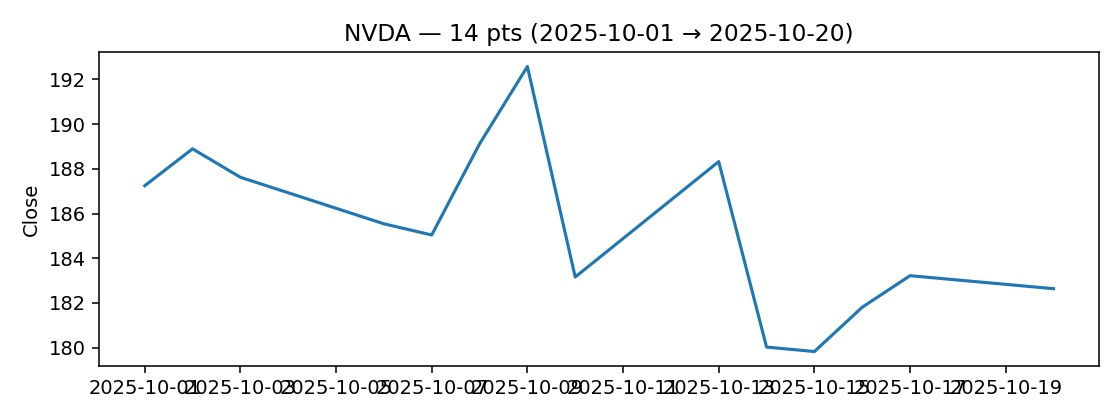
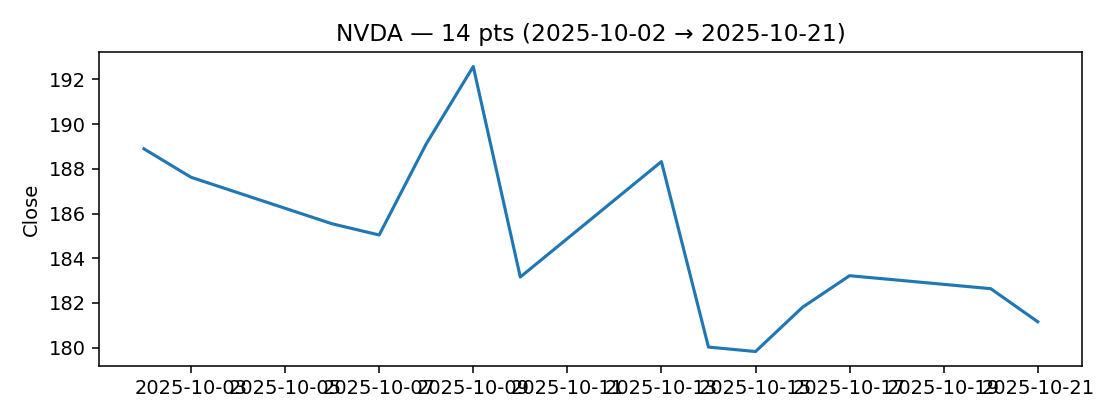
chore: update daily report 2025-10-22 08:13

diff --git a/docs/daily_report.html b/docs/daily_report.html
@@ -108,7 +108,7 @@
   <header>
     <div>
       <h1>Daily Study & News Companion</h1>
-      <div class="sub">2025-10-21 08:36 · TZ: CST</div>
+      <div class="sub">2025-10-22 08:13 · TZ: CST</div>
     </div>
     <button class="btn" id="themeBtn">🌓 Tema</button>
   </header>
@@ -150,11 +150,11 @@
           </div>
           <div class="mkt-body">
             <div class="metrics-row">
-          <div class="kv"><span>Last</span><b>216.48</b></div>
-          <div class="kv"><span>d/d</span><b class="down">-1.88%</b></div>
+          <div class="kv"><span>Last</span><b>222.03</b></div>
+          <div class="kv"><span>d/d</span><b class="down">-0.17%</b></div>
           <div class="kv"><span>Mín</span><b>213.04</b></div>
           <div class="kv"><span>Máx</span><b>227.74</b></div>
-          <div class="kv"><span>σ</span><b>4.04</b></div>
+          <div class="kv"><span>σ</span><b>4.09</b></div>
         </div>
             <div class="chart"><img src="charts/AMZN_close.png" alt="AMZN chart" loading="lazy"/></div>
           </div>
@@ -167,11 +167,11 @@
           </div>
           <div class="mkt-body">
             <div class="metrics-row">
-          <div class="kv"><span>Last</span><b>516.79</b></div>
-          <div class="kv"><span>d/d</span><b class="down">-0.56%</b></div>
+          <div class="kv"><span>Last</span><b>517.66</b></div>
+          <div class="kv"><span>d/d</span><b class="up">0.37%</b></div>
           <div class="kv"><span>Mín</span><b>510.96</b></div>
           <div class="kv"><span>Máx</span><b>528.57</b></div>
-          <div class="kv"><span>σ</span><b>5.26</b></div>
+          <div class="kv"><span>σ</span><b>5.23</b></div>
         </div>
             <div class="chart"><img src="charts/MSFT_close.png" alt="MSFT chart" loading="lazy"/></div>
           </div>
@@ -184,11 +184,11 @@
           </div>
           <div class="mkt-body">
             <div class="metrics-row">
-          <div class="kv"><span>Last</span><b>182.64</b></div>
-          <div class="kv"><span>d/d</span><b class="down">-2.46%</b></div>
+          <div class="kv"><span>Last</span><b>181.16</b></div>
+          <div class="kv"><span>d/d</span><b class="down">-4.09%</b></div>
           <div class="kv"><span>Mín</span><b>179.83</b></div>
           <div class="kv"><span>Máx</span><b>192.57</b></div>
-          <div class="kv"><span>σ</span><b>3.63</b></div>
+          <div class="kv"><span>σ</span><b>3.74</b></div>
         </div>
             <div class="chart"><img src="charts/NVDA_close.png" alt="NVDA chart" loading="lazy"/></div>
           </div>
@@ -201,11 +201,11 @@
           </div>
           <div class="mkt-body">
             <div class="metrics-row">
-          <div class="kv"><span>Last</span><b>447.43</b></div>
-          <div class="kv"><span>d/d</span><b class="down">-2.62%</b></div>
+          <div class="kv"><span>Last</span><b>442.60</b></div>
+          <div class="kv"><span>d/d</span><b class="up">1.51%</b></div>
           <div class="kv"><span>Mín</span><b>413.49</b></div>
-          <div class="kv"><span>Máx</span><b>459.46</b></div>
-          <div class="kv"><span>σ</span><b>10.82</b></div>
+          <div class="kv"><span>Máx</span><b>453.25</b></div>
+          <div class="kv"><span>σ</span><b>9.02</b></div>
         </div>
             <div class="chart"><img src="charts/TSLA_close.png" alt="TSLA chart" loading="lazy"/></div>
           </div>
@@ -218,11 +218,11 @@
           </div>
           <div class="mkt-body">
             <div class="metrics-row">
-          <div class="kv"><span>Last</span><b>671.30</b></div>
-          <div class="kv"><span>d/d</span><b class="up">0.43%</b></div>
+          <div class="kv"><span>Last</span><b>671.29</b></div>
+          <div class="kv"><span>d/d</span><b class="up">0.31%</b></div>
           <div class="kv"><span>Mín</span><b>653.02</b></div>
           <div class="kv"><span>Máx</span><b>673.11</b></div>
-          <div class="kv"><span>σ</span><b>5.29</b></div>
+          <div class="kv"><span>σ</span><b>5.42</b></div>
         </div>
             <div class="chart"><img src="charts/^GSPC_close.png" alt="^GSPC chart" loading="lazy"/></div>
           </div>
@@ -250,38 +250,38 @@
             <ul class="news-list">
               <li class="news-item" data-topic="AI">
                 <span class="dot"></span>
-                <a href="https://www.bloomberg.com/news/articles/2025-10-21/airbnb-ceo-brian-chesky-says-chatgpt-integration-not-ready-for-airbnb-app" target="_blank" rel="noreferrer">Chesky Says OpenAI Tools Not Ready for ChatGPT Tie-Up With Airbnb App</a>
-                <div class="meta">2025-10-21 12:00 · <span class="src">Natalie Lung</span></div>
+                <a href="https://www.bloomberg.com/news/articles/2025-10-22/ai-scours-1-billion-deal-terms-to-show-lenders-default-defenses" target="_blank" rel="noreferrer">AI Scours 1 Billion Deal Terms to Show Lenders’ Default Defenses</a>
+                <div class="meta">2025-10-22 12:00 · <span class="src">Rachel Graf</span></div>
               </li>
             
               <li class="news-item" data-topic="AI">
                 <span class="dot"></span>
-                <a href="https://www.bloomberg.com/news/articles/2025-10-21/unitedhealth-s-optum-real-uses-ai-to-speed-up-medical-claims" target="_blank" rel="noreferrer">UnitedHealth’s ‘Optum Real’ Uses AI to Speed Up Medical Claims</a>
-                <div class="meta">2025-10-21 11:00 · <span class="src">John Tozzi</span></div>
+                <a href="https://www.bloomberg.com/news/videos/2025-10-22/anthropic-google-discuss-multibillion-dollar-cloud-deal-video" target="_blank" rel="noreferrer">Anthropic, Google Discuss Multibillion-Dollar Cloud Deal</a>
+                <div class="meta">2025-10-22 10:43 · <span class="src">www.bloomberg.com</span></div>
               </li>
             
               <li class="news-item" data-topic="AI">
                 <span class="dot"></span>
-                <a href="https://www.bloomberg.com/news/articles/2025-10-21/insight-owned-veeam-agrees-to-buy-securiti-ai-for-1-7-billion" target="_blank" rel="noreferrer">Insight-Owned Veeam Agrees to Buy Securiti AI for $1.7 Billion</a>
-                <div class="meta">2025-10-21 11:00 · <span class="src">Dina Bass</span></div>
+                <a href="https://www.bloomberg.com/news/articles/2025-10-22/whatsapp-generative-ai-propel-brazil-into-the-future-of-finance" target="_blank" rel="noreferrer">WhatsApp and Generative AI Propel Brazil Into the Future of Finance</a>
+                <div class="meta">2025-10-22 10:00 · <span class="src">Gabriel Diniz Tavares</span></div>
               </li>
             
               <li class="news-item" data-topic="AI">
                 <span class="dot"></span>
-                <a href="https://www.bloomberg.com/news/articles/2025-10-21/ai-boom-transforms-utilities-from-haven-to-soaring-growth-stocks" target="_blank" rel="noreferrer">AI Boom Transforms Utilities From Haven to Soaring Growth Stocks</a>
-                <div class="meta">2025-10-21 10:30 · <span class="src">Carmen Reinicke</span></div>
+                <a href="https://www.bloomberg.com/news/articles/2025-10-22/prince-harry-geoffrey-hinton-call-for-ban-on-ai-superintelligence" target="_blank" rel="noreferrer">Prince Harry, Geoffrey Hinton Call for Ban on AI Superintelligence</a>
+                <div class="meta">2025-10-22 04:01 · <span class="src">Shirin Ghaffary</span></div>
               </li>
             
               <li class="news-item" data-topic="AI">
                 <span class="dot"></span>
-                <a href="https://www.bloomberg.com/news/articles/2025-10-21/openai-looks-to-replace-the-drudgery-of-junior-bankers-workload" target="_blank" rel="noreferrer">OpenAI Hires Ex-Goldman Staff to Help Cut Down Junior Bankers’ Grunt Work</a>
-                <div class="meta">2025-10-21 10:06 · <span class="src">Omar El Chmouri</span></div>
+                <a href="https://www.bloomberg.com/news/articles/2025-10-22/softbank-seeks-to-sell-about-2-billion-of-bonds-amid-ai-push" target="_blank" rel="noreferrer">SoftBank Seeks $2 Billion in Bond Sale as It Chases AI Bets</a>
+                <div class="meta">2025-10-22 02:36 · <span class="src">Janice Huang</span></div>
               </li>
             
               <li class="news-item" data-topic="AI">
                 <span class="dot"></span>
-                <a href="https://www.bloomberg.com/news/articles/2025-10-21/sea-ceo-li-sees-path-to-1-trillion-market-cap-with-help-of-ai" target="_blank" rel="noreferrer">Sea CEO Li Sees Path to $1 Trillion Market Cap With Help of AI</a>
-                <div class="meta">2025-10-21 03:30 · <span class="src">Olivia Poh</span></div>
+                <a href="https://www.bloomberg.com/news/articles/2025-10-21/anthropic-google-in-talks-on-cloud-deal-worth-tens-of-billions" target="_blank" rel="noreferrer">Anthropic, Google in Talks on Multibillion-Dollar Cloud Deal</a>
+                <div class="meta">2025-10-21 21:43 · <span class="src">Rachel Metz, Edward Ludlow, Davey Alba</span></div>
               </li>
             </ul>
           </div>
@@ -291,38 +291,38 @@
             <ul class="news-list">
               <li class="news-item" data-topic="Fintech">
                 <span class="dot"></span>
-                <a href="https://www.bloomberg.com/news/videos/2025-10-21/atlas-merchant-very-bullish-on-regional-banks-ceo-video" target="_blank" rel="noreferrer">Atlas Merchant ‘Very Bullish’ on Regional Banks, Says CEO Diamond</a>
-                <div class="meta">2025-10-21 13:48 · <span class="src">www.bloomberg.com</span></div>
+                <a href="https://www.bloomberg.com/news/articles/2025-10-22/boe-is-closely-monitoring-leveraged-finance-after-us-collapses" target="_blank" rel="noreferrer">BOE Is Scrutinizing Leveraged Finance After US Firms’ Collapse</a>
+                <div class="meta">2025-10-22 13:45 · <span class="src">Kat Hidalgo, Abhinav Ramnarayan</span></div>
               </li>
             
               <li class="news-item" data-topic="Fintech">
                 <span class="dot"></span>
-                <a href="https://www.bloomberg.com/news/articles/2025-10-21/bofa-says-reserve-managers-may-cut-french-bonds-by-70-billion" target="_blank" rel="noreferrer">BofA Says Reserve Managers May Cut French Bonds by €70 Billion</a>
-                <div class="meta">2025-10-21 13:39 · <span class="src">Greg Ritchie</span></div>
+                <a href="https://www.bloomberg.com/news/articles/2025-10-22/short-sellers-pare-wagers-against-bdcs-after-127-million-month" target="_blank" rel="noreferrer">Short Sellers Pare Wagers Against BDCs After $127 Million Month</a>
+                <div class="meta">2025-10-22 13:41 · <span class="src">Olivia Fishlow, Kat Hidalgo, Silas Brown</span></div>
               </li>
             
               <li class="news-item" data-topic="Fintech">
                 <span class="dot"></span>
-                <a href="https://www.bloomberg.com/news/articles/2025-10-21/fitch-sees-south-africa-endorsing-3-inflation-target-next-month" target="_blank" rel="noreferrer">Fitch Sees South Africa Endorsing 3% Inflation Target Next Month</a>
-                <div class="meta">2025-10-21 13:28 · <span class="src">Ntando Thukwana</span></div>
+                <a href="https://www.bloomberg.com/news/videos/2025-10-22/fed-floats-plan-on-smaller-capital-hikes-for-big-banks-video" target="_blank" rel="noreferrer">Fed Floats Plan on Smaller Capital Hikes for Big Banks</a>
+                <div class="meta">2025-10-22 13:32 · <span class="src">www.bloomberg.com</span></div>
               </li>
             
               <li class="news-item" data-topic="Fintech">
                 <span class="dot"></span>
-                <a href="https://www.bloomberg.com/news/videos/2025-10-21/bloomberg-businessweek-daily-10-20-2025-video" target="_blank" rel="noreferrer">Automakers Headline Earnings This Week | Bloomberg Businessweek Daily 10/20/2025</a>
-                <div class="meta">2025-10-21 13:22 · <span class="src">www.bloomberg.com</span></div>
+                <a href="https://www.bloomberg.com/news/articles/2025-10-22/ecb-s-lagarde-says-eu-trading-venue-fragmentation-needs-tackling" target="_blank" rel="noreferrer">ECB’s Lagarde Says EU Trading-Venue Fragmentation Needs Tackling</a>
+                <div class="meta">2025-10-22 13:31 · <span class="src">Mark Schroers, Alexander Weber</span></div>
               </li>
             
               <li class="news-item" data-topic="Fintech">
                 <span class="dot"></span>
-                <a href="https://www.bloomberg.com/news/articles/2025-10-21/hungary-holds-key-interest-rate-defying-orban-s-pressure" target="_blank" rel="noreferrer">Hungary Holds Key Interest Rate, Defying Orban’s Pressure</a>
-                <div class="meta">2025-10-21 12:00 · <span class="src">Marton Kasnyik, Zoltan Simon</span></div>
+                <a href="https://www.bloomberg.com/news/articles/2025-10-22/subprime-lender-primalend-enters-bankruptcy-after-bond-default" target="_blank" rel="noreferrer">Subprime Lender PrimaLend Enters Bankruptcy After Default</a>
+                <div class="meta">2025-10-22 12:04 · <span class="src">Eliza Ronalds-Hannon, Libby Cherry</span></div>
               </li>
             
               <li class="news-item" data-topic="Fintech">
                 <span class="dot"></span>
-                <a href="https://www.bloomberg.com/news/articles/2025-10-21/solomon-calls-regional-bank-losses-idiosyncratic-events" target="_blank" rel="noreferrer">Solomon Calls Regional Bank Losses ‘Idiosyncratic Events’</a>
-                <div class="meta">2025-10-21 11:50 · <span class="src">Annika Inampudi</span></div>
+                <a href="https://www.bloomberg.com/news/articles/2025-10-22/bnp-paribas-bonds-face-selling-risk-by-esg-funds-on-sudan-ruling" target="_blank" rel="noreferrer">BNP Paribas Bonds Face Selling Risk by ESG Funds on Sudan</a>
+                <div class="meta">2025-10-22 11:45 · <span class="src">Lisa Pham</span></div>
               </li>
             </ul>
           </div>
@@ -332,38 +332,38 @@
             <ul class="news-list">
               <li class="news-item" data-topic="General">
                 <span class="dot"></span>
-                <a href="https://www.bloomberg.com/news/articles/2025-10-21/gm-ends-electric-van-output-in-latest-setback-for-canadian-autos" target="_blank" rel="noreferrer">GM Ends Electric Van Output in Latest Setback for Canadian Autos</a>
-                <div class="meta">2025-10-21 13:46 · <span class="src">Derek Decloet</span></div>
+                <a href="https://www.bloomberg.com/news/articles/2025-10-22/us-korea-focusing-on-structure-of-350-billion-deal-not-fx-swap" target="_blank" rel="noreferrer">US-Korea Focusing on Structure of $350 Billion Deal, Not FX Swap</a>
+                <div class="meta">2025-10-22 14:00 · <span class="src">Heesu Lee, Shery Ahn, Soo-Hyang Choi</span></div>
               </li>
             
               <li class="news-item" data-topic="General">
                 <span class="dot"></span>
-                <a href="https://www.bloomberg.com/news/articles/2025-10-21/first-brands-bankruptcy-jefferies-fund-boasted-perfect-record-before-collapse" target="_blank" rel="noreferrer">Jefferies’ Fund Boasted Perfect Record Before First Brands Crash</a>
-                <div class="meta">2025-10-21 13:45 · <span class="src">Irene Garcia Perez, Katherine Doherty, Nishant Kumar, Eliza Ronalds-Hannon</span></div>
+                <a href="https://www.bloomberg.com/news/articles/2025-10-22/s-p-500-steady-as-traders-weigh-split-market-netflix-tumbles" target="_blank" rel="noreferrer">S&amp;P 500 Steady as Traders Weigh ‘Split’ Market; Netflix Tumbles</a>
+                <div class="meta">2025-10-22 13:55 · <span class="src">Felice Maranz</span></div>
               </li>
             
               <li class="news-item" data-topic="General">
                 <span class="dot"></span>
-                <a href="https://www.bloomberg.com/news/articles/2025-10-21/new-battery-factory-to-boost-power-for-pennsylvania-data-centers" target="_blank" rel="noreferrer">Eos Shares Surge on Deal to Power Pennsylvania Data Centers</a>
-                <div class="meta">2025-10-21 12:11 · <span class="src">Tope Alake, Naureen S Malik</span></div>
+                <a href="https://www.bloomberg.com/news/articles/2025-10-22/gm-financial-aims-to-sell-a-three-year-bond-on-wednesday" target="_blank" rel="noreferrer">GM Financial Aims to Sell a Three-Year Bond on Wednesday</a>
+                <div class="meta">2025-10-22 13:54 · <span class="src">Dan Wilchins</span></div>
               </li>
             
               <li class="news-item" data-topic="General">
                 <span class="dot"></span>
-                <a href="https://www.bloomberg.com/news/articles/2025-10-21/rtx-boosts-outlook-as-profit-jumps-at-aerospace-defense-units" target="_blank" rel="noreferrer">RTX Boosts Outlook as Aerospace, Defense Gains Blunt Tariffs</a>
-                <div class="meta">2025-10-21 10:56 · <span class="src">Kiel Porter</span></div>
+                <a href="https://www.bloomberg.com/news/articles/2025-10-22/ferrari-analysts-more-optimistic-than-ever-after-october-plunge" target="_blank" rel="noreferrer">Ferrari Analysts More Upbeat Than Ever After October Plunge</a>
+                <div class="meta">2025-10-22 10:31 · <span class="src">Isolde MacDonogh</span></div>
               </li>
             
               <li class="news-item" data-topic="General">
                 <span class="dot"></span>
-                <a href="https://www.bloomberg.com/news/articles/2025-10-21/gm-raises-outlook-as-strong-truck-demand-dulls-tariff-pain" target="_blank" rel="noreferrer">GM Raises Outlook as Strong Truck Demand Dulls Tariff Pain</a>
-                <div class="meta">2025-10-21 10:31 · <span class="src">David Welch</span></div>
+                <a href="https://www.bloomberg.com/news/articles/2025-10-21/gold-silver-hold-losses-as-stocks-take-a-breather-markets-wrap" target="_blank" rel="noreferrer">S&amp;P 500 Holds Near Record Before Tesla’s Earnings: Markets Wrap</a>
+                <div class="meta">2025-10-21 22:31 · <span class="src">Rita Nazareth</span></div>
               </li>
             
               <li class="news-item" data-topic="General">
                 <span class="dot"></span>
-                <a href="https://www.bloomberg.com/news/articles/2025-10-20/stock-market-today-dow-s-p-live-updates" target="_blank" rel="noreferrer">Stock Rally Flashes Signs of Fatigue as Gold Sinks: Markets Wrap</a>
-                <div class="meta">2025-10-20 22:32 · <span class="src">Rita Nazareth</span></div>
+                <a href="https://www.bloomberg.com/news/articles/2025-10-21/capital-one-profit-tops-estimates-announces-16-billion-buyback" target="_blank" rel="noreferrer">Capital One Announces $16 Billion Buyback as Profit Soars</a>
+                <div class="meta">2025-10-21 20:25 · <span class="src">Paige Smith</span></div>
               </li>
             </ul>
           </div>
@@ -373,38 +373,38 @@
             <ul class="news-list">
               <li class="news-item" data-topic="Machine Learning">
                 <span class="dot"></span>
-                <a href="https://www.bloomberg.com/news/articles/2025-10-21/bessent-confirms-economic-stabilization-deal-with-argentina" target="_blank" rel="noreferrer">Argentina Bonds Climb as Bessent Seals ‘Stabilization’ Deal</a>
-                <div class="meta">2025-10-21 13:22 · <span class="src">John Harney, Nicolle Yapur</span></div>
+                <a href="https://www.bloomberg.com/news/articles/2025-10-22/ghana-plans-to-seek-200-premium-for-eudr-compliant-cocoa" target="_blank" rel="noreferrer">Ghana Plans to Seek $200 Premium for EUDR-Compliant Cocoa</a>
+                <div class="meta">2025-10-22 13:46 · <span class="src">Ekow Dontoh</span></div>
               </li>
             
               <li class="news-item" data-topic="Machine Learning">
                 <span class="dot"></span>
-                <a href="https://www.bloomberg.com/news/articles/2025-10-21/chinese-firm-plans-world-s-largest-wind-turbine-as-rivals-flop" target="_blank" rel="noreferrer">China Firm Plans World’s Largest Wind Turbine as Rivals Flop</a>
-                <div class="meta">2025-10-21 08:04 · <span class="src">Dan Murtaugh, Ocean Hou</span></div>
+                <a href="https://www.bloomberg.com/news/articles/2025-10-22/malaysia-s-anwar-says-trade-deal-with-us-is-99-9-resolved" target="_blank" rel="noreferrer">Malaysia’s Anwar Says Trade Deal with US is ‘99.9% Resolved’</a>
+                <div class="meta">2025-10-22 13:40 · <span class="src">Netty Idayu Ismail, Anisah Shukry</span></div>
               </li>
             
               <li class="news-item" data-topic="Machine Learning">
                 <span class="dot"></span>
-                <a href="https://www.bloomberg.com/news/newsletters/2025-10-21/europe-s-sovereign-tech-push-moves-capital-to-rockets-drones-and-war" target="_blank" rel="noreferrer">Europe’s Sovereign Tech Push Moves Capital to Rockets, Drones and War</a>
-                <div class="meta">2025-10-21 08:00 · <span class="src">Mark Bergen</span></div>
+                <a href="https://www.bloomberg.com/news/newsletters/2025-10-22/china-s-phone-makers-are-chasing-xiaomi-not-apple" target="_blank" rel="noreferrer">China’s Phone Makers Are Chasing Xiaomi, Not Apple</a>
+                <div class="meta">2025-10-22 11:02 · <span class="src">Vlad Savov</span></div>
               </li>
             
               <li class="news-item" data-topic="Machine Learning">
                 <span class="dot"></span>
-                <a href="https://www.bloomberg.com/news/articles/2025-10-21/swiss-watch-exports-slump-in-september-hurt-by-us-tariffs" target="_blank" rel="noreferrer">Swiss Watch Exports Slump in September on US Tariffs</a>
-                <div class="meta">2025-10-21 06:57 · <span class="src">Allegra Catelli</span></div>
+                <a href="https://www.bloomberg.com/news/articles/2025-10-22/china-seeks-sensitive-data-from-us-firms-in-semiconductor-probe" target="_blank" rel="noreferrer">China Seeks Sensitive Data From US Firms in Semiconductor Probe</a>
+                <div class="meta">2025-10-22 08:16 · <span class="src">Debby Wu, Felix Tam</span></div>
               </li>
             
               <li class="news-item" data-topic="Machine Learning">
                 <span class="dot"></span>
-                <a href="https://www.ft.com/content/af8042f0-5de9-4509-bcb2-2d98d26a3d21" target="_blank" rel="noreferrer">Netherlands curtails intelligence-sharing with US over ‘human rights’</a>
-                <div class="meta">2025-10-20 18:15 · <span class="src">www.ft.com</span></div>
+                <a href="https://www.bloomberg.com/news/articles/2025-10-22/baidu-to-bring-robotaxis-without-steering-wheels-to-switzerland" target="_blank" rel="noreferrer">Baidu to Bring Robotaxis Without Steering Wheels to Switzerland</a>
+                <div class="meta">2025-10-22 08:05 · <span class="src">Charlie Zhu, Linda Lew</span></div>
               </li>
             
               <li class="news-item" data-topic="Machine Learning">
                 <span class="dot"></span>
-                <a href="https://www.ft.com/content/20a41258-48ff-4d18-bf04-e45c8238229e" target="_blank" rel="noreferrer">Nexperia’s China unit says staff can ignore orders from Dutch headquarters</a>
-                <div class="meta">2025-10-20 09:32 · <span class="src">www.ft.com</span></div>
+                <a href="https://www.bloomberg.com/news/articles/2025-10-21/netflix-says-brazil-tax-fight-squeezed-otherwise-solid-quarter" target="_blank" rel="noreferrer">Netflix Shares Fall Most Since March as Tax Dispute Hits Results</a>
+                <div class="meta">2025-10-21 20:01 · <span class="src">Lucas Shaw</span></div>
               </li>
             </ul>
           </div>
@@ -414,7 +414,7 @@
     </main>
   </div>
 
-  <footer>Generado localmente · 2025-10-21 08:36</footer>
+  <footer>Generado localmente · 2025-10-22 08:13</footer>
 
   <script>
     'use strict';
